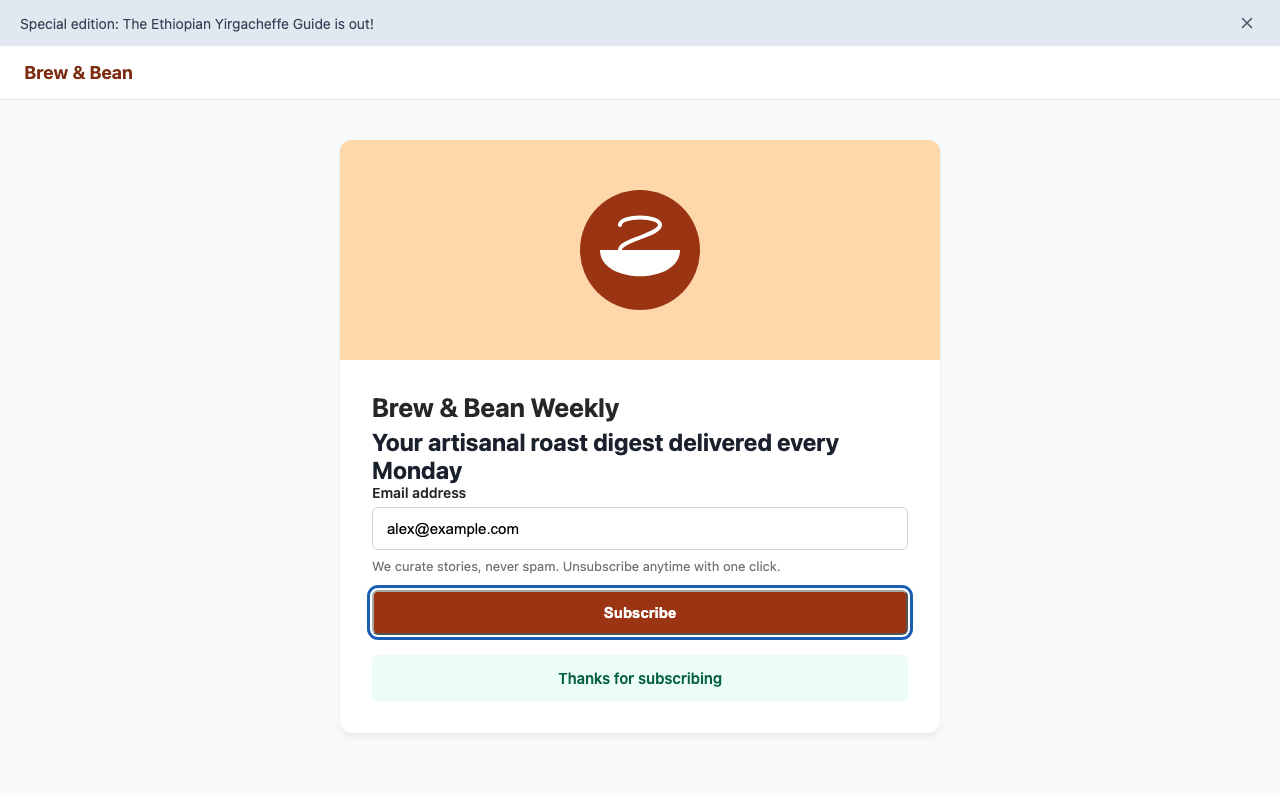
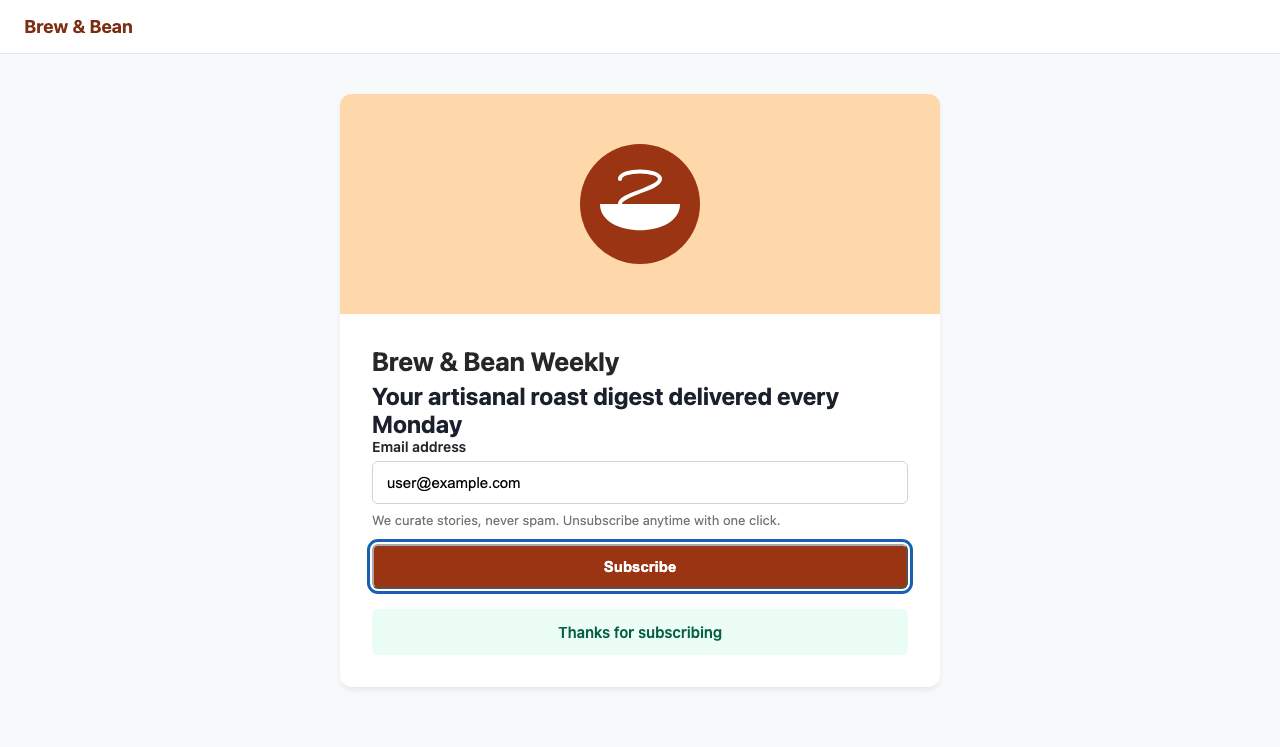
Fix accessibility verification and agent pipeline

Changed region(s): [[0.25, 0.1232, 0.75, 0.8621], [0.0, 0.0, 1.0, 0.1232]]

diff --git a/src/verifier.js b/src/verifier.js
@@ -168,7 +168,7 @@ export async function generateScreenReaderTranscript(html) {
 
 // Main verification pipeline: runs before/after axe, agent, layout diffs, and screen-reader transcripts
 export async function verify(url, options = {}) {
-  const timeoutMs = options.timeoutMs || 100000; // 100-second deadline for the live pipeline
+  const timeoutMs = options.timeoutMs || 180000; // 100-second deadline for the live pipeline
   const onProgress = typeof options.onProgress === 'function' ? options.onProgress : () => {};
   const startTime = Date.now();
   let phase = 'init';
